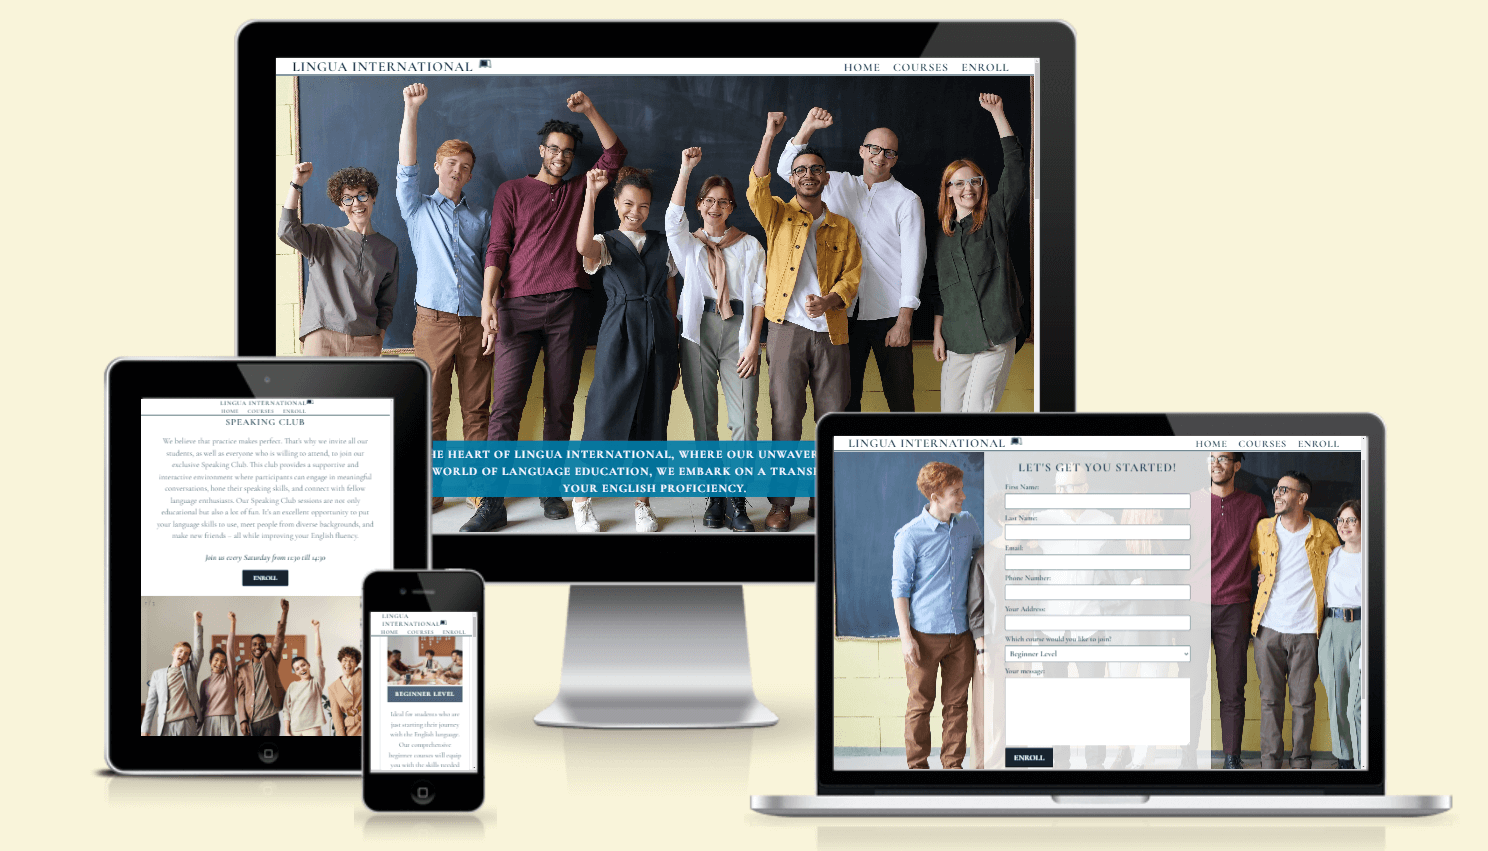
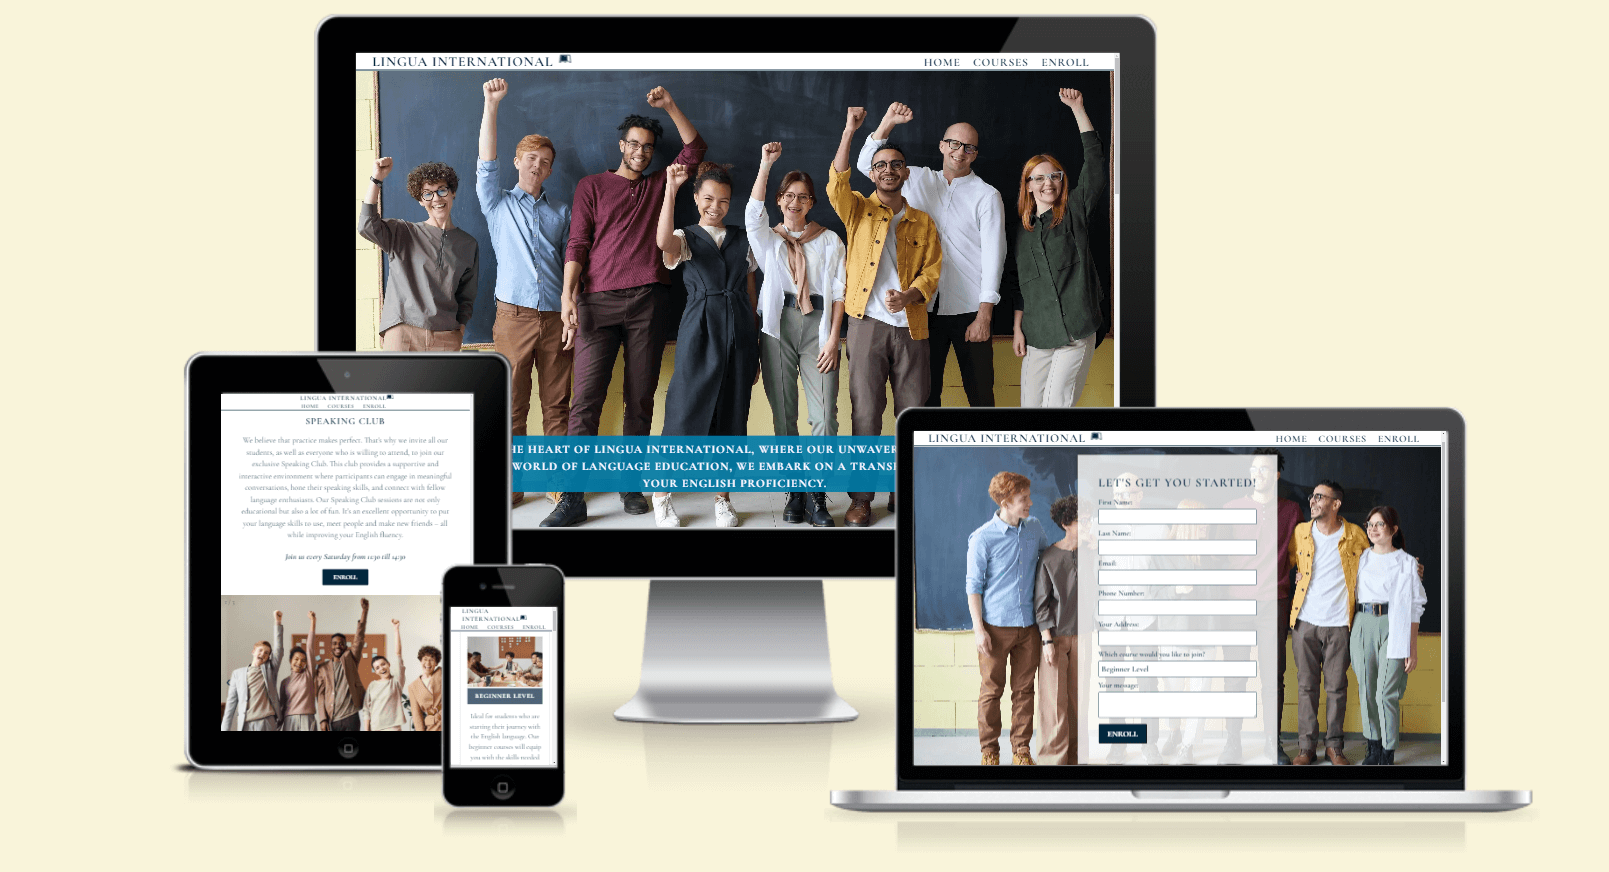
Replace screenshots with up to date

diff --git a/README.md b/README.md
@@ -45,20 +45,20 @@ ___
 
 The "About Us" section introduces Lingua International's mission and commitment to providing top-quality English language education. It contains a call to action paragraph and a button to go to the course offerings.
 It's for potential students who want to learn more about the school and its values.
-![About us](readme-media/aboutus-section.png)
+![About us](readme-media/about-us-section.png)
 
 ___
 - __Why Choose Lingua International?:__
 
 This section highlights the key benefits of choosing Lingua International, such as experienced instructors, interactive learning, a supportive community, flexibility, and inclusivity.
 It's for potential students who evaluate their options and want to understand why Lingua International stands out.
-![Why Choose Lingua International](readme-media/why-section.png)
+![Why Choose Lingua International]()
 ___
 - __Speaking Club:__
 
 The Speaking Club provides a platform to practice English speaking skills in a supportive and interactive environment, fostering fluency and community building.
 It's for current students and anyone interested in improving their English speaking skills and connecting with others. It is also open for native speakers. Below the section, there is an enroll button to sign up.
-![Speaking Club](readme-media/speaking-club-section.png)
+![Speaking Club](readme-media/why-section.png)
 ___
 - __Photo caurousel:__
 
@@ -69,10 +69,10 @@ ___
 - __Courses:__
 
 This section details the various English language courses offered by Lingua International, helping users understand the available options and how to achieve their language learning goals. The School offers English language courses for individuals at different levels. The courses are two basic courses (beginner level and intermediate level).
-![Basic Courses](readme-media/courses-section-basic-levels.png)
+![Basic Courses](readme-media/courses-basic-levels.png)
 
 And two advanced courses (business English and academic English).
-![Advanced Courses](readme-media/courses-section-pro-levels.png)
+![Advanced Courses](readme-media/courses-pro-levels.png)
 
 Each course has a content description that aligns with each user's goals and needs, duration, flexible scheduling options and costs. And enroll button to enroll on the desired course easily.
 It's for prospective students seeking information about the courses offered.
